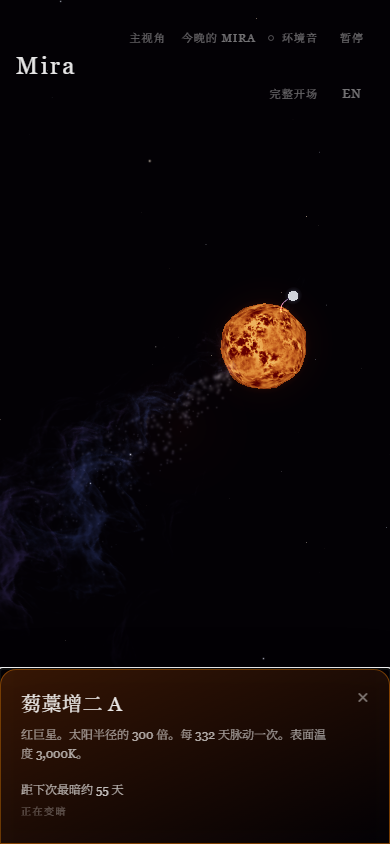
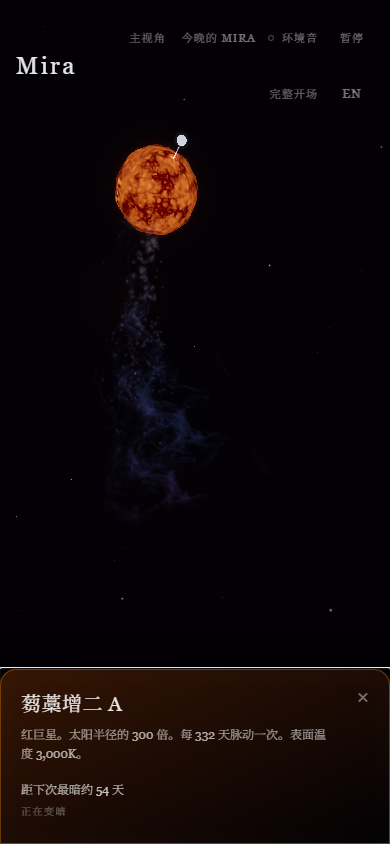
Give the companion a readable surface and lengthen the portrait tail
The red giant's live density is a broken convection field. The previous map,
with its connected equatorial vein, stays in the tree and is no longer loaded.

The companion gets its own grayscale. The mid-grey body is stretched and
multiplied before the highlight shoulder, so a zoomed-in star reads as
mottled blue-white, and a mid texel still leaves the far point hot. The map
fades in on its own and stays out of the entry gate. A capture parks that
fade only after the map has bound, so an unbound sampler cannot turn into grain.

Portrait far, explore and the epilogue step onto the river's side and lift,
so the tail runs down the tall frame. Close, the mid waypoint and the
landscape camera stay put. Portrait fog reaches the new distance.

The three live WebP maps total about 601 KB.

diff --git a/src/components/Scene/MiraB.tsx b/src/components/Scene/MiraB.tsx
@@ -1,4 +1,4 @@
-import { useRef, useMemo } from 'react';
+import { useRef, useMemo, useEffect } from 'react';
 import { useFrame } from '@react-three/fiber';
 import * as THREE from 'three';
 import { AccretionDisk_Shader, makeDiskUniforms } from '../../shaders/accretionDisk';
@@ -8,7 +8,8 @@ import type { OrbitPositions } from '../../types';
 import GlowShell from './GlowShell';
 import type { MutableRefObject } from 'react';
 import { useReducedMotion } from 'framer-motion';
-import { advanceTime } from '../../lib/captureMode';
+import { advanceTime, parkedFade } from '../../lib/captureMode';
+import { materialFade } from '../../lib/entryReadiness';
 
 interface MiraBProps {
   position: [number, number, number];
@@ -20,16 +21,13 @@ interface MiraBProps {
 
 // Custom shader for Mira B - White Dwarf with intense core glow
 const miraBShaderMaterial = {
-  uniforms: {
-    time: { value: 0 },
-    color: { value: new THREE.Color(COLORS.MIRA_B_CORE) },
-    intensity: { value: 0.8 },
-  },
   vertexShader: `
+    varying vec2 vUv;
     varying vec3 vNormal;
     varying vec3 vPosition;
 
     void main() {
+      vUv = uv;
       vNormal = normalize(normalMatrix * normal);
       vPosition = position;
       gl_Position = projectionMatrix * modelViewMatrix * vec4(position, 1.0);
@@ -39,7 +37,10 @@ const miraBShaderMaterial = {
     uniform float time;
     uniform vec3 color;
     uniform float intensity;
+    uniform sampler2D uSurfaceMap;
+    uniform float uSurfaceReady;
 
+    varying vec2 vUv;
     varying vec3 vNormal;
     varying vec3 vPosition;
 
@@ -57,13 +58,30 @@ const miraBShaderMaterial = {
       // Subtle rapid pulsation (white dwarfs can pulsate quickly)
       float pulse = 0.98 + 0.02 * sin(time * 4.0);
 
-      // Combine effects
+      // The companion's own density. The grayscale is mild — most texels sit near
+      // mid-grey — so a small multiply after the shoulder vanishes into the hot
+      // core and the bloom, and a zoomed-in star still reads as a flat white bead.
+      // Stretch that body onto a swing centred at 1 and apply it before the
+      // shoulder: dark grains fall out of the bloom, a mid texel leaves the hot
+      // point alone. Weight zero is today's procedural photosphere, including a
+      // late or missing map. The seam and the poles stay on that flat read so a
+      // wrap line cannot ring the star.
+      float seam = smoothstep(0.0, 0.06, vUv.x) * (1.0 - smoothstep(0.94, 1.0, vUv.x));
+      seam *= smoothstep(0.0, 0.08, vUv.y) * (1.0 - smoothstep(0.92, 1.0, vUv.y));
+      float density = texture2D(uSurfaceMap, vUv).r;
+      float opened = clamp((density - 0.50) / 0.17, -1.0, 1.0);
+      float grain = 1.0 + opened * 0.46;
+      float weight = seam * uSurfaceReady;
+
+      // Combine effects. The core lamp eases off once the map is showing, or it
+      // paints the middle white and the grains never surface.
       vec3 finalColor = color * intensity * pulse;
-      finalColor += vec3(1.0, 1.0, 1.0) * coreBright * 0.35;
+      finalColor += vec3(1.0, 1.0, 1.0) * coreBright * mix(0.35, 0.16, weight);
       finalColor += vec3(0.8, 0.9, 1.0) * fresnel * 0.3;
 
       // Slight blue tint for hot star
       finalColor = mix(finalColor, vec3(0.7, 0.85, 1.0), 0.15);
+      finalColor *= mix(1.0, grain, weight);
       finalColor = highlightShoulder(finalColor);
 
       gl_FragColor = vec4(finalColor, 1.0);
@@ -94,10 +112,46 @@ export default function MiraB({ position, radius, segments = 64, positionsRef }:
   const materialRef = useRef<THREE.ShaderMaterial>(null);
   const diskMaterialRef = useRef<THREE.ShaderMaterial>(null);
   const timeRef = useRef(0);
+  // When the companion density bound. The frame loop ramps uSurfaceReady from the
+  // stamp. Null keeps the procedural photosphere, and this map never joins the
+  // entry gate — a late or missing companion texture must not hold the opening.
+  const surfaceBoundAtRef = useRef<number | null>(null);
   const reduceMotion = Boolean(useReducedMotion());
 
   // White dwarf: hot blue-white (#e0e7ff per product direction)
   const color = useMemo(() => new THREE.Color(COLORS.MIRA_B_CORE), []);
+  const uniforms = useMemo(() => ({
+    time: { value: 0 },
+    color: { value: color.clone() },
+    intensity: { value: 0.8 },
+    uSurfaceMap: { value: null as THREE.Texture | null },
+    uSurfaceReady: { value: 0 },
+  }), [color]);
+
+  useEffect(() => {
+    let active = true;
+    const material = materialRef.current;
+    const texture = new THREE.TextureLoader().load(
+      `${import.meta.env.BASE_URL}materials/companion-surface-density-v1.webp`,
+      (loaded) => {
+        if (!active || !material) return;
+        loaded.colorSpace = THREE.NoColorSpace;
+        material.uniforms.uSurfaceMap.value = loaded;
+        surfaceBoundAtRef.current = performance.now();
+      },
+      undefined,
+      () => {
+        if (!active) return;
+        surfaceBoundAtRef.current = null;
+      },
+    );
+    return () => {
+      active = false;
+      surfaceBoundAtRef.current = null;
+      if (material) material.uniforms.uSurfaceReady.value = 0;
+      texture.dispose();
+    };
+  }, []);
 
   const diskRadius = radius * DISK_SCALE;
 
@@ -108,6 +162,14 @@ export default function MiraB({ position, radius, segments = 64, positionsRef }:
     if (materialRef.current) {
       materialRef.current.uniforms.time.value = time;
       materialRef.current.uniforms.color.value = color;
+      // Stay on the procedural photosphere until the map has actually bound.
+      // Capture parks the fade at 1, and an unbound sampler at that weight is not
+      // a flat white dwarf: the stretch reads it as grain, so two captures of the
+      // same URL stop matching.
+      const boundAt = surfaceBoundAtRef.current;
+      materialRef.current.uniforms.uSurfaceReady.value = boundAt == null
+        ? 0
+        : parkedFade(materialFade(boundAt, performance.now()));
     }
 
     if (coronaRef.current) {
@@ -146,7 +208,9 @@ export default function MiraB({ position, radius, segments = 64, positionsRef }:
         <sphereGeometry args={[radius, segments, segments]} />
         <shaderMaterial
           ref={materialRef}
-          {...miraBShaderMaterial}
+          uniforms={uniforms}
+          vertexShader={miraBShaderMaterial.vertexShader}
+          fragmentShader={miraBShaderMaterial.fragmentShader}
         />
       </mesh>
 

diff --git a/tests/unit/openingTimeline.spec.ts b/tests/unit/openingTimeline.spec.ts
@@ -122,12 +122,26 @@ test.describe('portrait composition', () => {
     expect(dist(pose.lookAt, [0, 0, 0])).toBeLessThan(3);
   });
 
-  test('the portrait pull-back bows toward the river too', () => {
+  test('the portrait pull-back still bends through its waypoint on the way to the river', () => {
     const pose = resolveOpeningPose(8, PORT);
     const straight = PORTRAIT_CAMERA.CLOSE.position.map(
       (v, i) => v + (PORTRAIT_CAMERA.FAR.position[i] - v) * 0.5,
     );
-    expect(pose.position[0]).toBeLessThan(straight[0] - 0.5);
+    // The far pose itself stands on the river's side, so the old "left of the
+    // chord" check no longer describes the bow. The waypoint still pulls the
+    // path off a straight retreat.
+    expect(dist(pose.position, straight)).toBeGreaterThan(1);
+    expect(PORTRAIT_CAMERA.FAR.position[0]).toBeLessThan(PORTRAIT_CAMERA.CLOSE.position[0]);
+  });
+
+  test('portrait far, explore and closing stand back so the tail can read as long', () => {
+    const lengthOf = (p: readonly number[]) => Math.hypot(p[0], p[1], p[2]);
+    expect(lengthOf(PORTRAIT_CAMERA.EXPLORE.position)).toBeGreaterThan(lengthOf(PORTRAIT_CAMERA.CLOSE.position) * 2);
+    expect(lengthOf(PORTRAIT_CAMERA.FAR.position)).toBeGreaterThan(lengthOf(CAMERA.FAR.position));
+    expect(lengthOf(PORTRAIT_CAMERA.CLOSING.position)).toBeGreaterThan(lengthOf(PORTRAIT_CAMERA.EXPLORE.position));
+    expect(PORTRAIT_CAMERA.EXPLORE.lookAt[1]).toBeLessThan(PORTRAIT_CAMERA.CLOSE.lookAt[1]);
+    expect(lengthOf(PORTRAIT_CAMERA.EXPLORE.lookAt)).toBeGreaterThan(8);
+    expect(lengthOf(PORTRAIT_CAMERA.CLOSE.position)).toBeLessThan(18);
   });
 
   test('the portrait fov path reads the portrait table, not the landscape globals', () => {

diff --git a/tests/unit/shaderParity.spec.ts b/tests/unit/shaderParity.spec.ts
@@ -97,6 +97,25 @@ test.describe('Mira A shader stays in step with binaryLighting', () => {
   test('Mira B shares the same highlight shoulder snippet', () => {
     expect(miraBSource).toContain('${HIGHLIGHT_SHOULDER_GLSL}');
   });
+
+  test('the companion density fades on its own and does not join the entry gate', () => {
+    expect(miraBSource).toContain('companion-surface-density-v1.webp');
+    expect(miraBSource).toContain('uSurfaceReady');
+    expect(miraBSource).not.toContain('noteMaterial');
+    // The stretch has to land before the shoulder. After it, the same grains
+    // compress into the hot core and the zoomed-in star goes flat white again.
+    const grain = miraBSource.indexOf('finalColor *= mix(1.0, grain, weight)');
+    const shoulder = miraBSource.indexOf('finalColor = highlightShoulder(finalColor)');
+    expect(grain).toBeGreaterThan(-1);
+    expect(shoulder).toBeGreaterThan(grain);
+    expect(miraBSource).toContain('(density - 0.50) / 0.17');
+    // Capture parks the fade at 1. That weight must wait until the map is bound,
+    // or an unbound sampler is stretched into grain and a repeated capture drifts.
+    const gate = miraBSource.indexOf('boundAt == null');
+    const park = miraBSource.indexOf('materialFade(boundAt, performance.now())');
+    expect(gate).toBeGreaterThan(-1);
+    expect(park).toBeGreaterThan(gate);
+  });
 });
 
 test.describe('accretion disk shader stays in step with binaryLighting', () => {

diff --git a/src/constants/animation.ts b/src/constants/animation.ts
@@ -71,19 +71,23 @@ export const PORTRAIT_CAMERA = {
     lookAt: [-1, -2, 3] as [number, number, number],
     fov: 45,
   },
+  // Far, explore and the epilogue step onto the river's side and lift. In the
+  // tall frame the tail runs downward and the pair sits small above it. Close
+  // and the mid waypoint stay with the pair. Distance to the orbit target stays
+  // inside the explore zoom limit, so the landing is a place the viewer can keep.
   EXPLORE: {
-    position: [8, 9, 28] as [number, number, number],
-    lookAt: [-2, -3, 6] as [number, number, number],
+    position: [-6, 22, 26] as [number, number, number],
+    lookAt: [-2, -6, 14] as [number, number, number],
     fov: 45,
   },
   FAR: {
-    position: [8, 9, 32] as [number, number, number],
-    lookAt: [-2, -3, 6] as [number, number, number],
+    position: [-5, 23, 30] as [number, number, number],
+    lookAt: [-2, -8, 13] as [number, number, number],
     fov: 50,
   },
   CLOSING: {
-    position: [8, 11, 34] as [number, number, number],
-    lookAt: [-7, -5, 6] as [number, number, number],
+    position: [-8, 26, 32] as [number, number, number],
+    lookAt: [-8, -10, 16] as [number, number, number],
     fov: 48,
   },
 } as const;

diff --git a/src/lib/captureMode.ts b/src/lib/captureMode.ts
@@ -10,9 +10,13 @@
 //     of the same URL are the same settled scene. The full register of parked values:
 //       · the uTime family (accumulation, twinkle phases, stream flow, the decorative
 //         orbit) parks at CAPTURE_TIME via advanceTime below;
-//       · the two 入场 (arrival) fades — uSurfaceReady on Mira A, uReady on the river
+//       · the 入场 (arrival) fades — uSurfaceReady on Mira A and uReady on the river
 //         veil — park at 1 via parkedFade below: a capture is the settled scene even
 //         if the texture never bound;
+//       · uSurfaceReady on Mira B parks at 1 only after its map has bound. Before that
+//         it stays 0. An unbound sampler at weight 1 is not the procedural photosphere:
+//         the stretch would read that sample as grain, and two captures of one URL
+//         would stop matching;
 //       · the mouse ripple (uMouseInfluence on MiraTail) zeroes out — that one is a
 //         motion strategy (it shares its reduceMotion switch), not a clock parking,
 //         so it stays at its call site and is deliberately not registered here.

diff --git a/src/components/Scene/Scene.tsx b/src/components/Scene/Scene.tsx
@@ -380,6 +380,9 @@ function SceneContent({
   // Tail opacity is computed in useFrame and stored in tailOpacityRef
   return (
     <>
+      {/* Portrait stands farther down the tail, so the haze has to reach that far
+          or the river fades out just as the scale of it should read. */}
+      <fog attach="fog" args={[COLORS.VOID_BLACK, portrait ? 20 : 15, portrait ? 80 : 50]} />
       <group rotation-z={portrait ? Math.PI / 3 : 0}>
       {/* Custom twinkling star field */}
       <StarField count={lod.starCount} />
@@ -695,7 +698,6 @@ export default function Scene({ onSelectStar }: SceneProps) {
       }}
     >
       <color attach="background" args={[COLORS.VOID_BLACK]} />
-      <fog attach="fog" args={[COLORS.VOID_BLACK, 15, 50]} />
 
       <SceneContent
         onSelectStar={onSelectStar}

diff --git a/tests/e2e/river-material.spec.ts b/tests/e2e/river-material.spec.ts
@@ -6,7 +6,7 @@ test('image-backed river loads without blocking exploration or replay', async ({
   page.on('console', message => { if (message.type() === 'error') errors.push(message.text()); });
   await page.addInitScript(() => localStorage.setItem('mira:seen-opening', '1'));
   const texture = page.waitForResponse(response => response.url().endsWith('/materials/river-density-v1.webp'));
-  const surface = page.waitForResponse(response => response.url().endsWith('/materials/surface-density-v1.webp'));
+  const surface = page.waitForResponse(response => response.url().endsWith('/materials/surface-density-v2.webp'));
   await page.goto('/?quality=low');
   expect((await texture).ok()).toBe(true);
   expect((await surface).ok()).toBe(true);

diff --git a/tests/unit/freeViewCamera.spec.ts b/tests/unit/freeViewCamera.spec.ts
@@ -86,6 +86,13 @@ test.describe('the landing (explore hand-off)', () => {
     expect(step.pose!.lookAt).toEqual([...PORTRAIT_CAMERA.EXPLORE.lookAt]);
     expect(step.pose!.fov).toBeGreaterThan(PORTRAIT_CAMERA.EXPLORE.fov);
   });
+
+  test('portrait explore stands farther back than the landscape explore', () => {
+    const lengthOf = (p: readonly number[]) => Math.hypot(p[0], p[1], p[2]);
+    const step = stepFreeViewCamera(initialFreeViewState(), frame({ portrait: true, aspect: PORT }));
+    expect(lengthOf(step.pose!.position)).toBeGreaterThan(lengthOf(CAMERA.EXPLORE.position) + 3);
+    expect(step.pose!.lookAt).toEqual([...PORTRAIT_CAMERA.EXPLORE.lookAt]);
+  });
 });
 
 test.describe('return to the main view', () => {

diff --git a/tests/e2e/daily-sky.spec.ts b/tests/e2e/daily-sky.spec.ts
@@ -36,7 +36,8 @@ test.describe('Daily sky', () => {
       // Registered before the navigation so the texture loads cannot race past.
       const materials = Promise.all([
         page.waitForResponse((r) => r.url().endsWith('/materials/river-density-v1.webp')),
-        page.waitForResponse((r) => r.url().endsWith('/materials/surface-density-v1.webp')),
+        page.waitForResponse((r) => r.url().endsWith('/materials/surface-density-v2.webp')),
+        page.waitForResponse((r) => r.url().endsWith('/materials/companion-surface-density-v1.webp')),
       ]);
       // A mid-cycle date: no milestone window, so the hint overlay never enters the frame.
       const sky = await visitSky(page, Date.UTC(2026, 8, 12), true);

diff --git a/src/components/Scene/MiraA.tsx b/src/components/Scene/MiraA.tsx
@@ -34,7 +34,7 @@ export default function MiraA({ position, radius, turbulence, segments = 64 }: M
 
   useEffect(() => {
     let active = true;
-    const texture = new THREE.TextureLoader().load(`${import.meta.env.BASE_URL}materials/surface-density-v1.webp`, loaded => {
+    const texture = new THREE.TextureLoader().load(`${import.meta.env.BASE_URL}materials/surface-density-v2.webp`, loaded => {
       if (!active || !materialRef.current) return;
       loaded.colorSpace = THREE.NoColorSpace;
       materialRef.current.uniforms.uSurfaceMap.value = loaded;

diff --git a/experiments/river-study.ts b/experiments/river-study.ts
@@ -80,7 +80,7 @@ function markReady() {
 }
 const density = textureLoader.load('/experiments/assets/river-density-v1.png', markReady);
 density.colorSpace = THREE.NoColorSpace;
-const surface = textureLoader.load('/materials/surface-density-v1.webp', markReady);
+const surface = textureLoader.load('/materials/surface-density-v2.webp', markReady);
 surface.colorSpace = THREE.NoColorSpace;
 
 function bentPlane(width: number, height: number, layer: number, depth: number) {

diff --git a/docs/visual-direction/ASSETS.md b/docs/visual-direction/ASSETS.md
@@ -10,8 +10,12 @@
 | epic.png | 已选纵深与尺度参考 | 仅概念图 |
 | ../../experiments/assets/river-density-v1.png | 单层灰度气流密度；亮度→透明度，着色交给 shader | 2172×724 PNG，990285 bytes；实验可用，尚未做交付压缩 |
 | ../../public/materials/river-density-v1.webp | 光河正式场景素材 | 77766 bytes；随生产构建复制 |
-| ../../experiments/assets/surface-density-v1.png | 星体表面灰度原始素材 | 3257888 bytes；仅源文件 |
-| ../../public/materials/surface-density-v1.webp | 星体表面正式素材 | 584140 bytes；随生产构建复制 |
+| ../../experiments/assets/surface-density-v1.png | 红巨星星面灰度，上一版 | 3257888 bytes；仅源文件。赤道有一圈连通亮脉，正式场景已不再使用 |
+| ../../public/materials/surface-density-v1.webp | 上一版红巨星星面 | 584140 bytes；保留作对照，运行时不加载 |
+| ../../experiments/assets/surface-density-v2.png | 红巨星星面灰度原始素材 | 640644 bytes；仅源文件。赤道与其余纬度同为断开的对流 |
+| ../../public/materials/surface-density-v2.webp | 红巨星星面正式素材 | 141836 bytes；随生产构建复制 |
+| ../../experiments/assets/companion-surface-density-v1.png | 伴星星面灰度原始素材 | 703866 bytes；仅源文件。细颗粒，无赤道亮带 |
+| ../../public/materials/companion-surface-density-v1.webp | 伴星星面正式素材 | 381172 bytes；随生产构建复制。不参加入场门禁 |
 | ../../public/materials/entry-still-v2.jpg | 加载遮罩与静态后备共用的记录静帧 | 本项目自身场景的基线法捕获（非外部素材，无第三方权利）；来源场景版本与捕获命令见同目录 entry-still-v2.SOURCE.txt；#24 引入、#29（11）按 01/02 后新美术重制，#62 从验收版 b53ed9e 重采（与 v1 逐字节一致，仅刷新溯源） |
 
 密度图生成约束：纯黑底；单条水平银白薄雾，右窄左宽；细丝与涡流；四边柔和淡出；无星星、双星、文字、颜色或光源；用于弯曲网格的局部纹理。原始文件保持不变。无需假设 PNG 有 alpha，shader 直接读取灰度。
